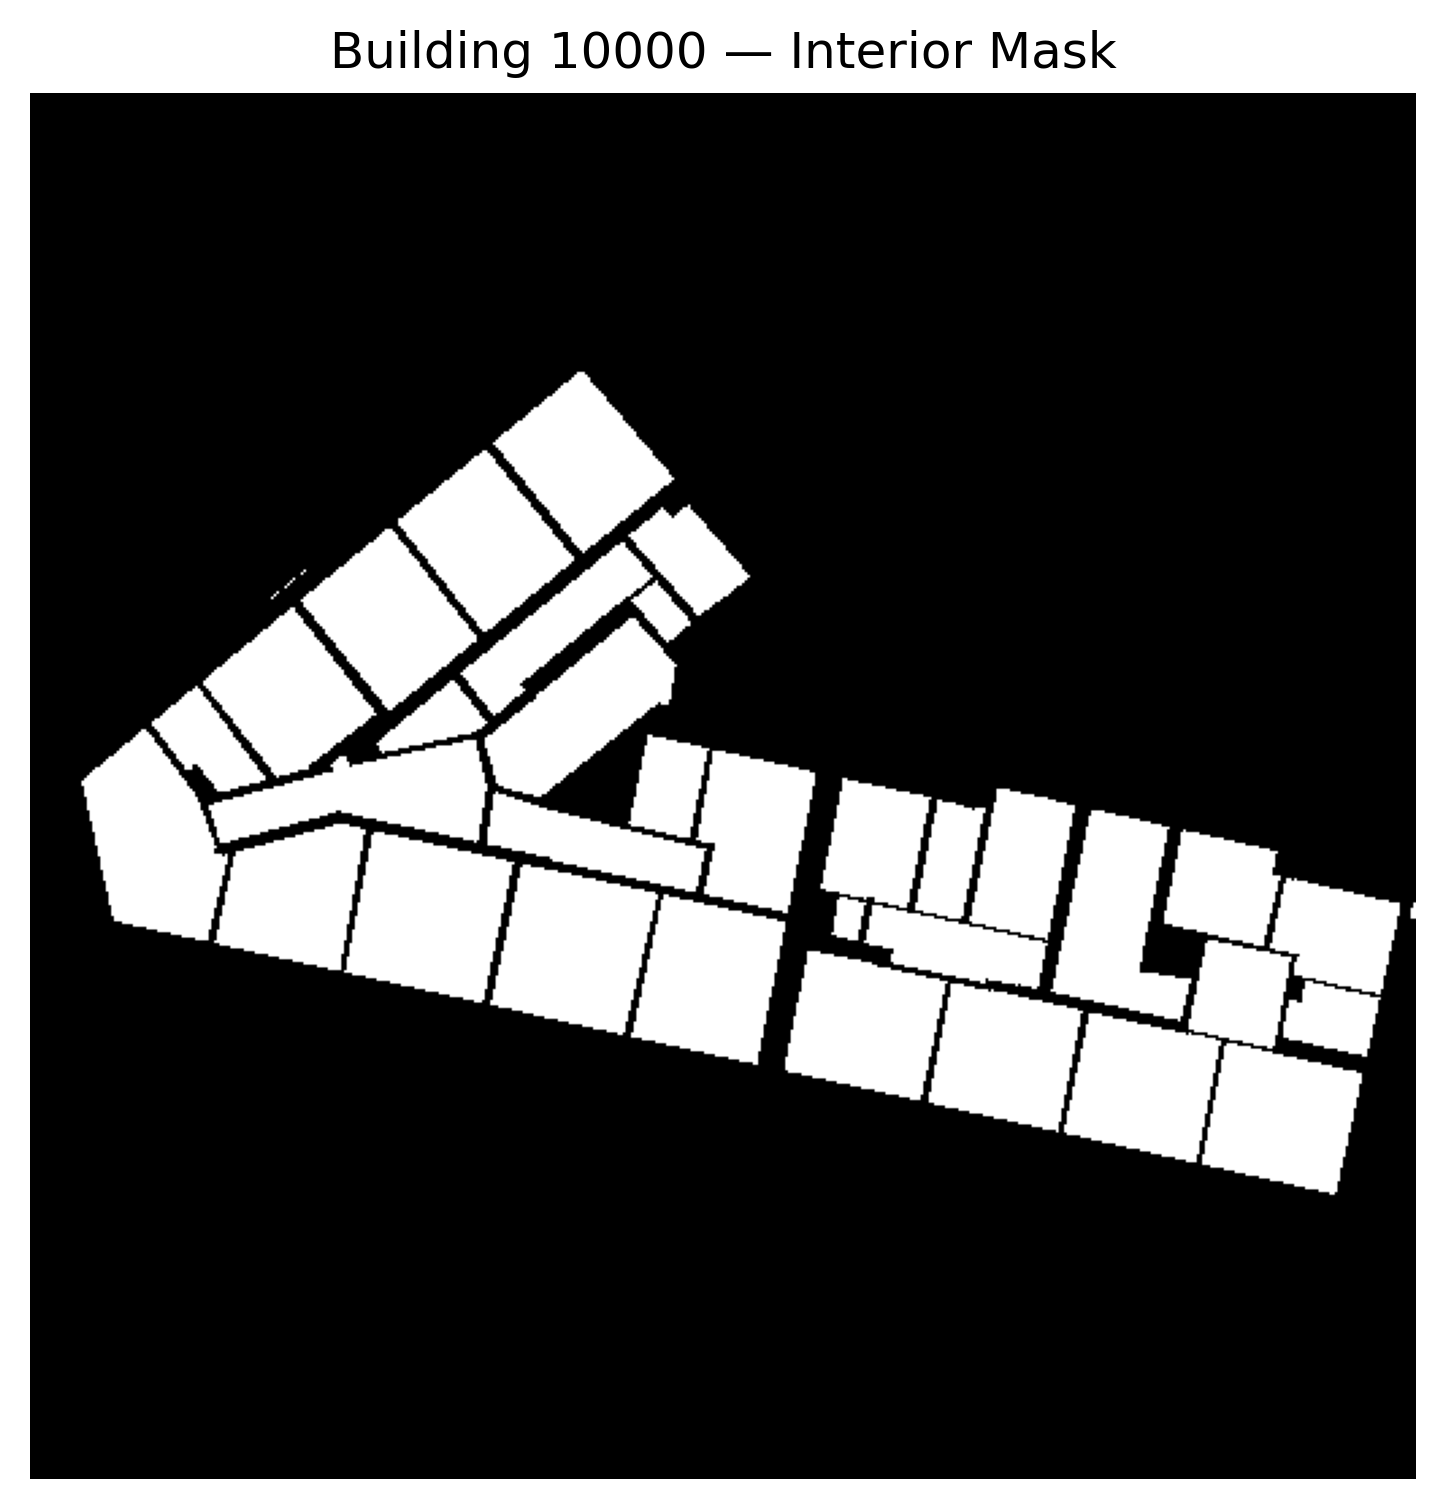
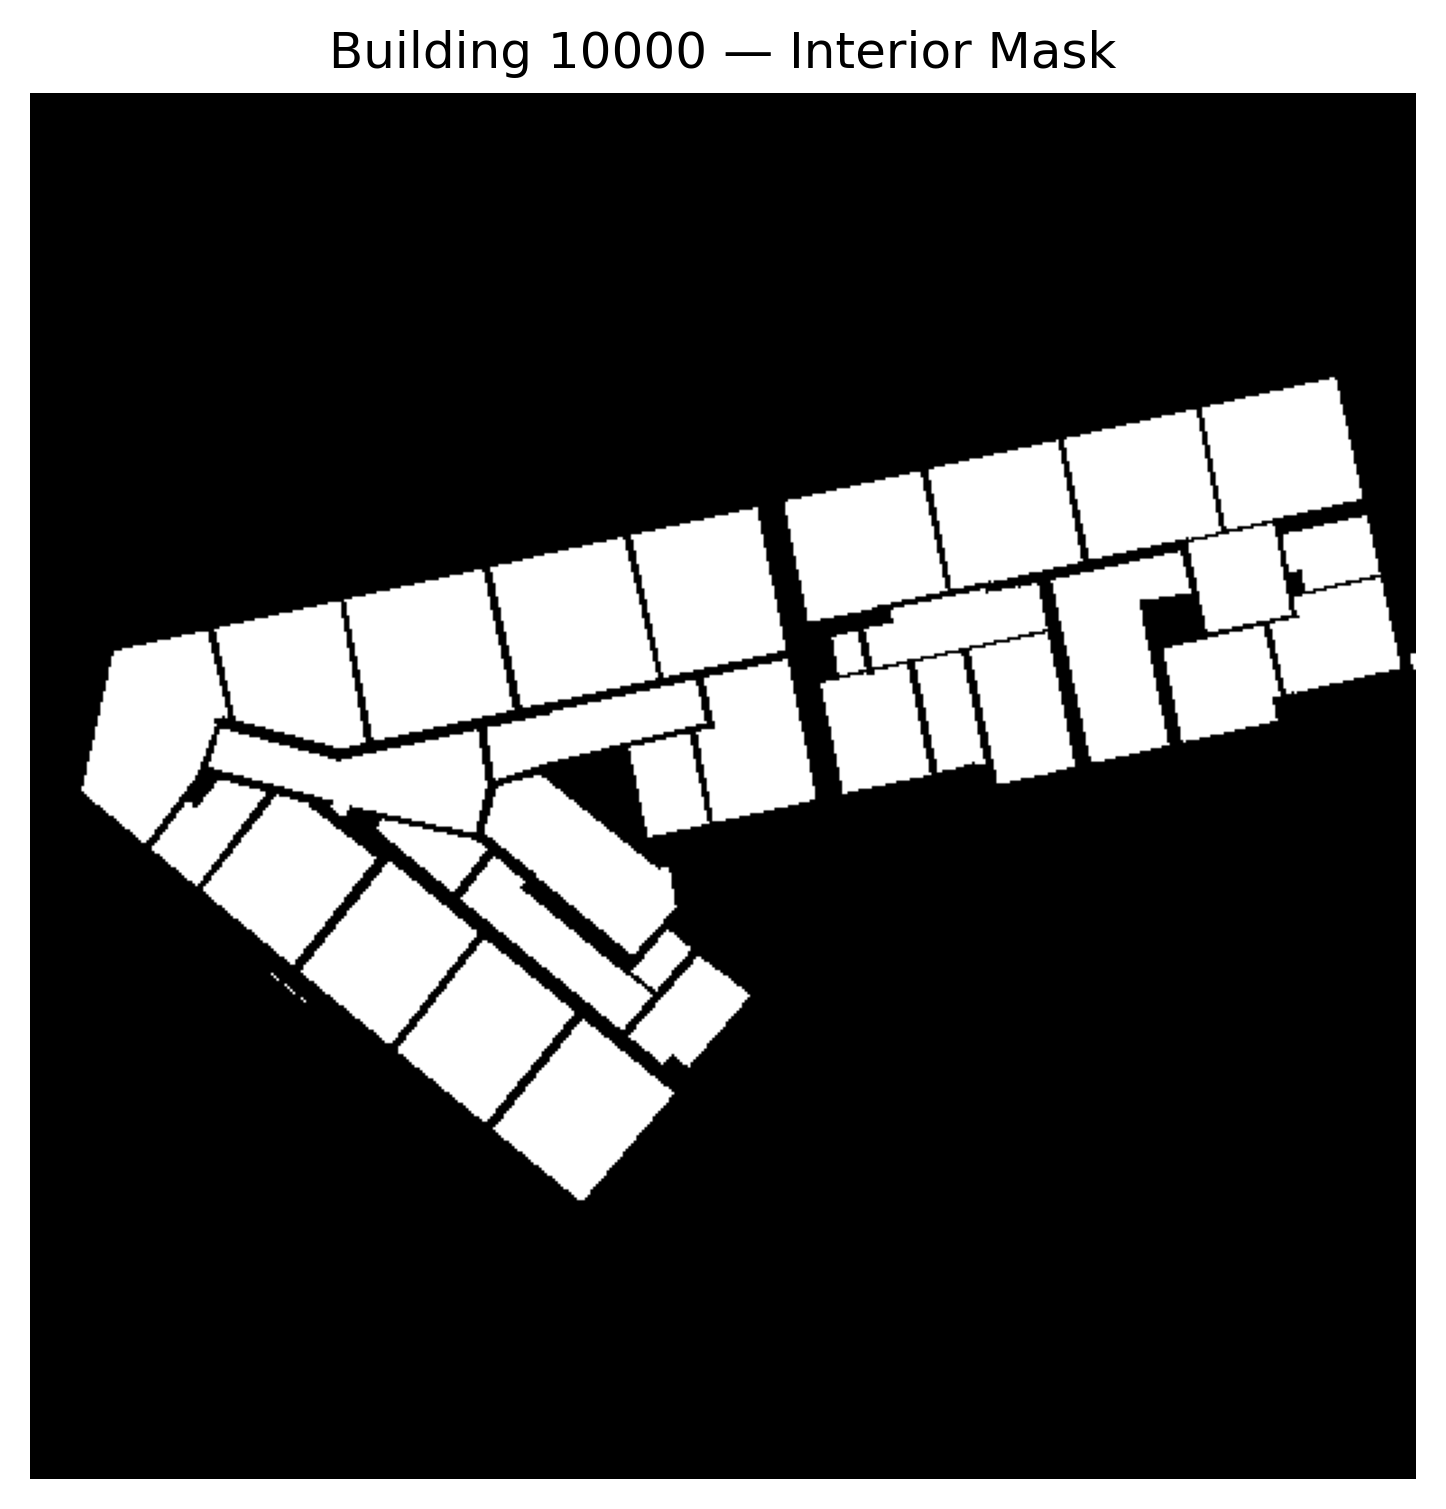
small fixes to task1234

Changed region(s): [[0.0622, 0.2492, 0.9959, 0.8098], [0.249, 0.0311, 0.3734, 0.0623]]

diff --git a/Tasks1234/Task1.py b/Tasks1234/Task1.py
@@ -5,7 +5,7 @@ import matplotlib.pyplot as plt
 
 
 data_dir = '/dtu/projects/02613_2025/data/modified_swiss_dwellings/'
-output_base = './figures/Task1/'
+output_base = './Tasks1234/figures/Task1/'
 
 os.makedirs(output_base, exist_ok=True)
 
@@ -29,7 +29,7 @@ for dom_path in domain_paths:
     plt.close()
 
     plt.figure(figsize=(6,6))
-    plt.imshow(mask, cmap='gray', origin='lower')
+    plt.imshow(mask, cmap='gray')
     plt.title(f'Building {b_id} — Interior Mask')
     plt.axis('off')
     plt.savefig(os.path.join(out_dir, 'mask.png'), dpi=300, bbox_inches='tight')

diff --git a/Tasks1234/Task3.py b/Tasks1234/Task3.py
@@ -74,7 +74,7 @@ if __name__ == '__main__':
     for u, bid in zip(all_u[:3], building_ids[:3]):
         plt.figure(figsize=(6, 6))
         temp = u[1:-1, 1:-1]
-        im = plt.imshow(temp, cmap='hot', origin='lower')
+        im = plt.imshow(temp)
         plt.title(f'Building {bid}\nFinal Temp')
         plt.axis('off')
         plt.colorbar(im, label='°C') 
